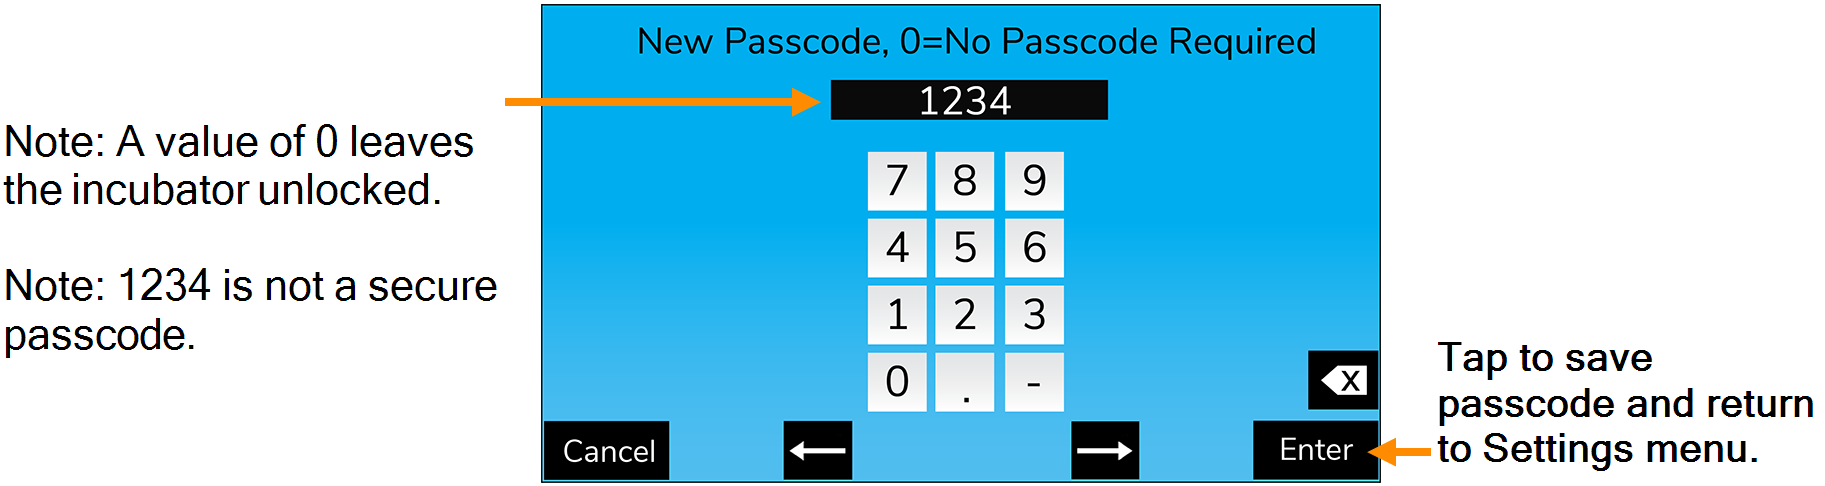
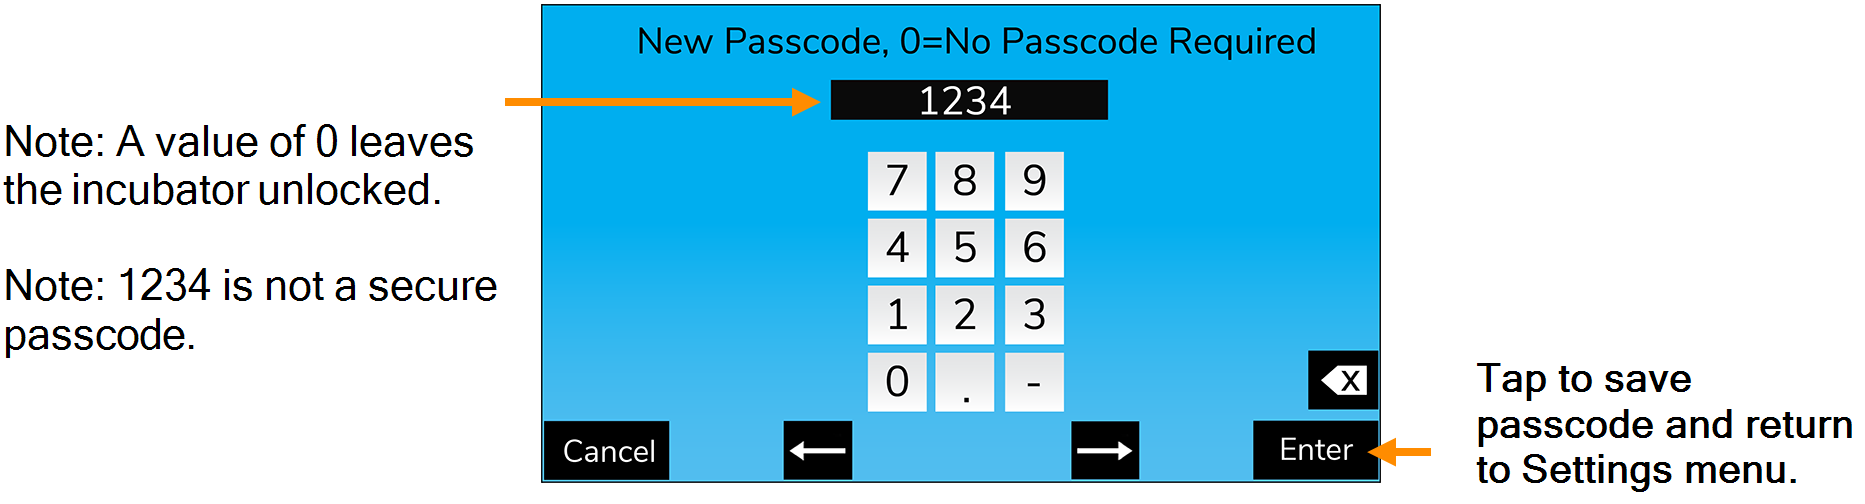
Updated imagery in passcode locking topic

Changed region(s): [[0.0, 0.0, 0.9995, 1.0], [0.0, 0.6481, 0.1249, 0.7407]]

diff --git a/Content/Resources/Topics/SL_Operation/Set_OTL.htm b/Content/Resources/Topics/SL_Operation/Set_OTL.htm
@@ -5,7 +5,7 @@
     </head>
     <body>
         <p class="Note" MadCap:autonum="&lt;b&gt;Note: &lt;/b&gt;">Test the OTL system at least once per year to verify its functionality.</p>
-        <h2><a name="Set_OTL"></a>Set the Over Temperature Limit (OTL)<img src="../../Images/Graphic Symbols/Temperature/OTL_SL_Man.png" MadCap:mediastyle="@media print { position: absolute;z-index: 0; }" style="float: left;width: 60px;height: 61px;left: 625px;top: 37px;" /></h2>
+        <h2><a name="Set_OTL"></a>Set the Over Temperature Limit (OTL)<img src="../../Images/Graphic Symbols/Temperature/OTL_SL_Man.png" MadCap:mediastyle="@media print { position: absolute;z-index: 0; }" style="float: left;width: 60px;height: 61px;left: 624px;top: 80px;" /></h2>
         <p>This procedure sets the Over Temperature Limit heating cutoff to approximately <MadCap:conditionalText MadCap:conditions="Unit Type.Incubator">1˚C</MadCap:conditionalText> <MadCap:conditionalText MadCap:conditions="Unit Type.Oven,Unit Type.Vacuum Oven">10°C</MadCap:conditionalText> above the current chamber temperature. <b>Perform this procedure when the unit has been running with no temperature fluctuations at your application temperature for at least 30 minutes.</b></p>
         <table style="width: 100%;mc-table-style: url('../../Stylesheets/SLProcedureTable.css');margin-left: 0;margin-right: auto;" class="TableStyle-SLProcedureTable" cellspacing="0">
             <col class="TableStyle-SLProcedureTable-Column-Column1" />

diff --git a/Content/Resources/Topics/SL_Operation/Passcode_Locking.htm b/Content/Resources/Topics/SL_Operation/Passcode_Locking.htm
@@ -18,7 +18,7 @@
         </p>
         <h3>3. Enter a 1 to 4-digit numeric passcode.</h3>
         <p>
-            <img src="Operation_Images/SMI_Pass_Lock_3_Man.png" style="padding-left: 0px;padding-right: 2px;padding-top: 2px;padding-bottom: 2px;margin-left: 0px;margin-right: 2px;margin-top: 2px;margin-bottom: 2px;" />
+            <img src="Operation_Images/SMI_Pass_Lock_3_Man.png" style="margin-left: 0px;margin-right: 2px;margin-top: 2px;margin-bottom: 0px;padding-left: 0px;padding-right: 2px;padding-top: 2px;padding-bottom: 0px;" />
         </p>
         <p>Once the passcode is set, the user can make changes until the display returns to the homepage, at which point the settings will be locked.</p>
         <p><b>Note:</b> The display will automatically return to the homepage after 120 seconds of inactivity.</p>
